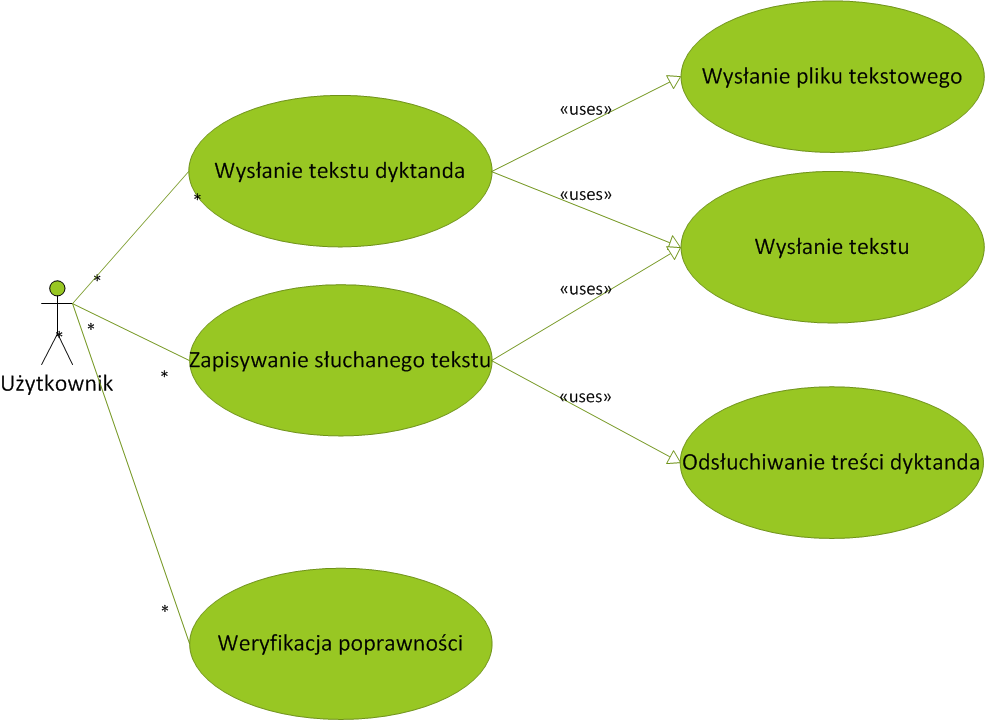
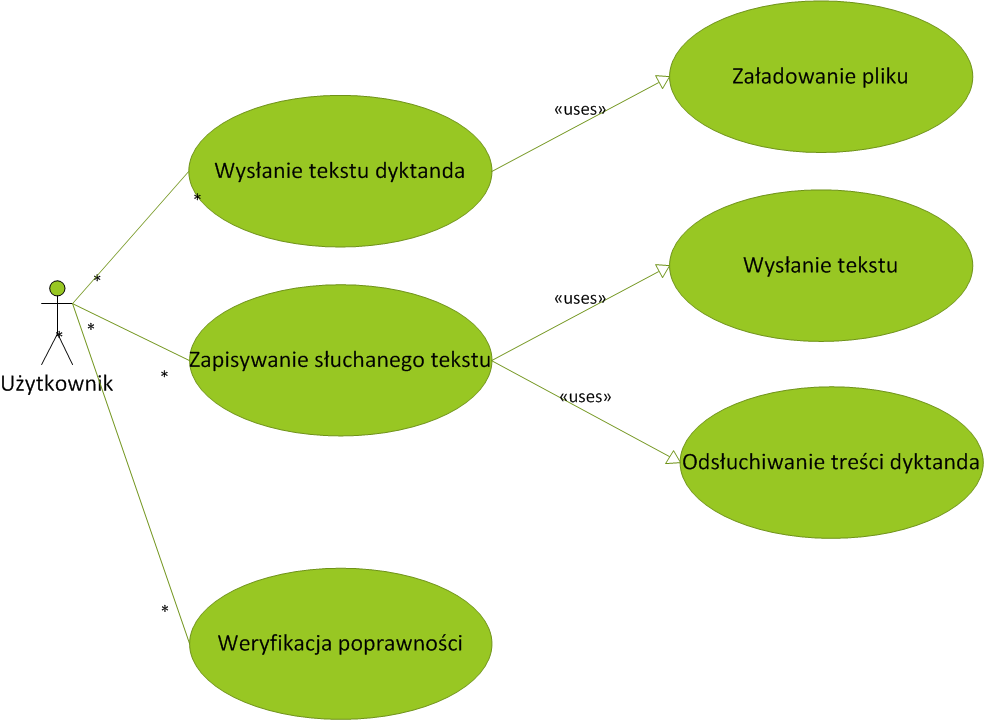
rozdzial nie wie mktory czesc I

diff --git a/4/wymagania.tex b/4/wymagania.tex
@@ -2,7 +2,7 @@
 % content in this file will be fed into the main document
 
 %: ----------------------- name of chapter  -------------------------
-\chapter{Analiza wymagań} % top level followed by section, subsection
+\chapter{Weryfikacja rozwiązania} % top level followed by section, subsection
 
 
 %: ----------------------- paths to graphics ------------------------
@@ -16,10 +16,56 @@
 
 %: ----------------------- contents from here ------------------------
 
-Tem rodział opisuje wymagania które powinny być spełniane przez poszczególne, przykładowe aplikacje korzystające z serwisu UniversalSynthesizer. Podstawową funkcją serwisu jest udostępnianie usługi zamiany tekstu na mowę. Zaletą niniejszego systemu jest jego otwartość, możliwość wykorzystania innych niż proponowane syntezatorów mowy, łatwy dostęp przez web service, stosunkowo prosty sposób rozbudowy oraz możliwość jego wykorzystania do różnych celów na różnych platformach. Cechy te należy zademonstrować na przykładzie kilku prostych aplikacji, które muszą spełniać pewne jasno określone wymagania funkcjonalne i niefunkcjonalne opisane poniżej. 
-\section{Wymagania funkcjonalne}
+Rozdział ten opisuje jak wybrany sposób integracji oraz powstały w ten sposób prototypowy system wpływa na łatwość tworzenia i efektywność aplikacji przetwarzających mowę. Proponowane przykładowe aplikacje to:
+\begin{itemize}
+	\item Automatyczne dyktando
+	\item Lektor RSS
+	\item Lektor SMS
+	\item Konwerter plików graficznych do tekstowych
+\end{itemize}
+Każdej z proponowanych aplikacji poświęcono osobny podrozdział, w którym jest zdefiniowany przypadek użycia, przedstawione są wymagania funkcjonalne i niefunkcjonalne oraz przedstawiona jest weryfikacja podejścia.
 
-\subsection{Automatyczne dyktando}
+
+\section{Automatyczne dyktando}
+Jest to aplikacja web'owa umożliwiająca użytkownikowi ćwiczenie pisownii w różnych językach. Zasada działania jest bardzo prosta, użytkownik ładuje plik tekstowy lub graficzny na serwer oraz wybiera język docelowy, następnie zostaje przekierowany na stronę zawierającą formularz do pisania tekstu oraz odtwarzacz. Użytkownik słucha tekstu i zapisuje w polu tekstowym transkrypcję. W momencie w którym zatwierdzi formularz zostaje on przesłany na serwer i porównany z oryginalnym plikiem wejściowym, w efekcie użytkownik otrzymuje informację o ilości popełnionych błędów oraz o wyrazach które źle zapisał. 
+\newpage
+\subsection{Przypadek użycia}
+\begin{figure}[!h]
+	\centering
+	\includegraphics[scale=0.45]{useCaseDictando.png} 
+	\caption{Przypadek użycia - Automatyczne dyktando }
+\end{figure}
+
+\subsection{Wymagania}
+\subsubsection{Wymagania funkcjonalne}
+\begin{enumerate}
+	\item Obsługiwanie wielu języków
+	\item Możliwość podania tekstu źródłowego
+		\begin{enumerate}
+			\item jako plik graficzny
+			\item jako plik tekstowy, wysyłany na serwer
+		\end{enumerate}
+	\item Umożliwienie użytkownikowi odsłuchania wysłanego tekstu w wybranym przez niego języku
+	\item Umożliwienie użytkownikowi wprowadzania tekstu jednocześnie z odsłuchiwaniem
+	\item Wygenerowanie i wyświetlenie raportu o ilości błędów popełnionych przez użytkownika
+\end{enumerate}
+
+\subsubsection{Wymagania niefunkcjonalne}
+\begin{enumerate}
+	\item Bezpieczeństwo - użytkownik i tylko on powinien móc widzieć swoje wyniki
+	\item Wydajność - dyktowanie tekstu powinno przebiegać płynnie, opóźnienia są niedozwolone ponieważ mogą dekoncentrować użytkownika
+	\item Niezawodność - użytkownik powinien zawsze otrzymać wynik który jest poprawny
+\end{enumerate}
+
+\subsection{Weryfikacja podejścia}
+Jak widać w powyższym podrozdziale wymagania stawiane przed aplikacją są precyzyjne i klarowne. Zastosowane podejście integracyjne sprawia, że stworzenie aplikacji spełniającej wymagania staje się proste. Zapewnienie obsługi wielu języków nie wymaga praktycznie żadnego nakładu pracy ze strony programisty aplikacji klienckiej. Jak zostało to opisane w rozdziale drugim, przy zastosowanym podejściu wystarczy wygenerować i przesłać plik xml z informacją dotyczącą języka docelowego, działa to niezależnie od języka w którym jest tekst wejściowy (pod warunkiem, że w pliku konfiguracyjnym ustawi się tag odpowiedzialny za serwis rozpoznający język). Podobnie przesłanie pliku graficznego, również wymaga tylko umieszczenia odpowiedniego tagu w pliku xml celem wywolania serwisu OCR. Jak łatwo zauważyć wygenerowanie i przesłanie pliku xml nie jest dużym wyzwaniem programistycznym. Szczególnie gdyby chcieć zaimplementować taką aplikację bez wykorzystania systemu opartego o rozwiązanie opisane w tej pracy. Musiałaby ona łączyć się z kilkoma zewnętrznymi serwisami, z których każdy prawdopodobnie miałby inny interfejs. Również narzut na komunikację byłby znacząco większy ponieważ byłaby ona dużo intensywnijesza. \\
+Jak widać, w tym przypadku, zastosowane podejście w sposób znaczący pozytywnie wpływa na łatwość i szybkość implementacji aplikacji klienckiej. \\
+ ----------------------------------------------------------------------------------------------------------------------------------------------------------------------
+W celu weryfikacji prezentowanego rozwiązania 
+
+Tem rodział opisuje wymagania które powinny być spełniane przez poszczególne, przykładowe aplikacje korzystające z serwisu UniversalSynthesizer. Podstawową funkcją serwisu jest udostępnianie usługi zamiany tekstu na mowę. Zaletą niniejszego systemu jest jego otwartość, możliwość wykorzystania innych niż proponowane syntezatorów mowy, łatwy dostęp przez web service, stosunkowo prosty sposób rozbudowy oraz możliwość jego wykorzystania do różnych celów na różnych platformach. Cechy te należy zademonstrować na przykładzie kilku prostych aplikacji, które muszą spełniać pewne jasno określone wymagania funkcjonalne i niefunkcjonalne opisane poniżej. 
+
+
 Jest to prosta aplikacja dostępna dla użytkowników w formacie strony internetowej. Jej głównym celem jest wykorzystanie funkcji UniversalSynthesizer do dyktowania treści którą użytkownik zapisuje. Po odczytaniu całego tekstu i wysłaniu przez użytkownika formularza, jest on porównywany z tekstem oryginalnym w ten sposób może ćwiczyć swoją ortografie. Dużą zaletą jest to, że aplikacja ta nie jest ograniczona do jednego języka oraz fakt, że użytkownik sam podaje tekst.
 \newpage
 \subsubsection{Przypadki użycia} 

diff --git a/2/problem_analysis.tex b/2/problem_analysis.tex
@@ -245,7 +245,7 @@ Jak widać są to rzeczy dość proste i możliwe do bardzo szybkiej implementac
 	\item RSS
 	\item serwisy REST'owe
 \end{itemize}
-Łatwo wyobrazić sobie użycie endpointów, można je na przykład wykorzystać aby umożliwić użytkownikowi dostęp do serwisu drogą mailową. Wystarczy aby użytkownik wysłał na specjalny adres maila zawierającego, w postaci załączników, plik sterujący xml, na przykład zdjęcie tekstu albo tekst, w efekcie czego otrzymałby maila zwrotnego z danymi uzyskanymi w wyniku wykonania żądanych przez niego operacji. Innym przykładem użycia endpointów, w celu zwiększenia funkcjonalności systemu, mogłoby być rozbudowanie pliku sterującego na przykład o tag \textless rssSource\textgreater który sprawi, że aplikacja zamiast pliku wejściowego pobierze wiadomości ze źródła RSS i na nich wywoła funkcje udostępniane przez serwisy. Jak widać wykorzystanie endpoint'ów daje wiele możliwości i idealnie wkomponowuje się w dziedzinę problemu, co stanowi kolejny argument na rzecz wykorzystania ESB jako sposobu integracji.
+Łatwo wyobrazić sobie użycie endpointów, można je na przykład wykorzystać aby umożliwić użytkownikowi dostęp do serwisu drogą mailową. Wystarczy aby użytkownik wysłał na specjalny adres maila zawierającego, w postaci załączników, plik sterujący xml oraz plik wejściowy, na przykład zdjęcie tekstu albo tekst, w efekcie czego otrzymałby maila zwrotnego z danymi uzyskanymi w wyniku wykonania żądanych przez niego operacji. Innym przykładem użycia endpointów, w celu zwiększenia funkcjonalności systemu, mogłoby być rozbudowanie pliku sterującego na przykład o tag \textless rssSource\textgreater który sprawi, że aplikacja zamiast pliku wejściowego pobierze wiadomości ze źródła RSS i na nich wywoła funkcje udostępniane przez serwisy. Jak widać wykorzystanie endpoint'ów daje wiele możliwości i idealnie wkomponowuje się w dziedzinę problemu, co stanowi kolejny argument na rzecz wykorzystania ESB jako sposobu integracji.
 
 \section*{Podsumowanie}
 Biorąc pod uwagę proponowane serwisy, format danych wejściowych i wymagania stawiane przed platformą zdecydowanie najlepszym sposobem integracji wydaje się wykorzystanie jednej z istniejących implementacji ESB. Wszystkie one zapewniają routing, dużo różnych endpointów, wsparcie dla aplikacji pisanych przy użyciu Springa i wiele innych rzeczy które można wykorzystać nie tylko przy implementacji podsatawowej wersji systemu ale także przy jego rozbudowie. 

diff --git a/thesis.tex b/thesis.tex
@@ -164,16 +164,16 @@ Kraków, 2012
 
 \include{1_introduction/introduction}	% background information
 \include{2/problem_analysis}
-\include{3/technologie}						% aims of the project
+%\include{3/technologie}						% aims of the project
 
 \include{4/wymagania}						
 	
-\include{5/projects_implementations}
-\include{6/XYZ}
+%\include{5/projects_implementations}
+%\include{6/XYZ}
 
-\include{7/discussion}               % discussion of results
+%\include{7/discussion}               % discussion of results
 
-\include{8/materials_methods}        % description of lab methods
+%\include{8/materials_methods}        % description of lab methods
 
 
 
